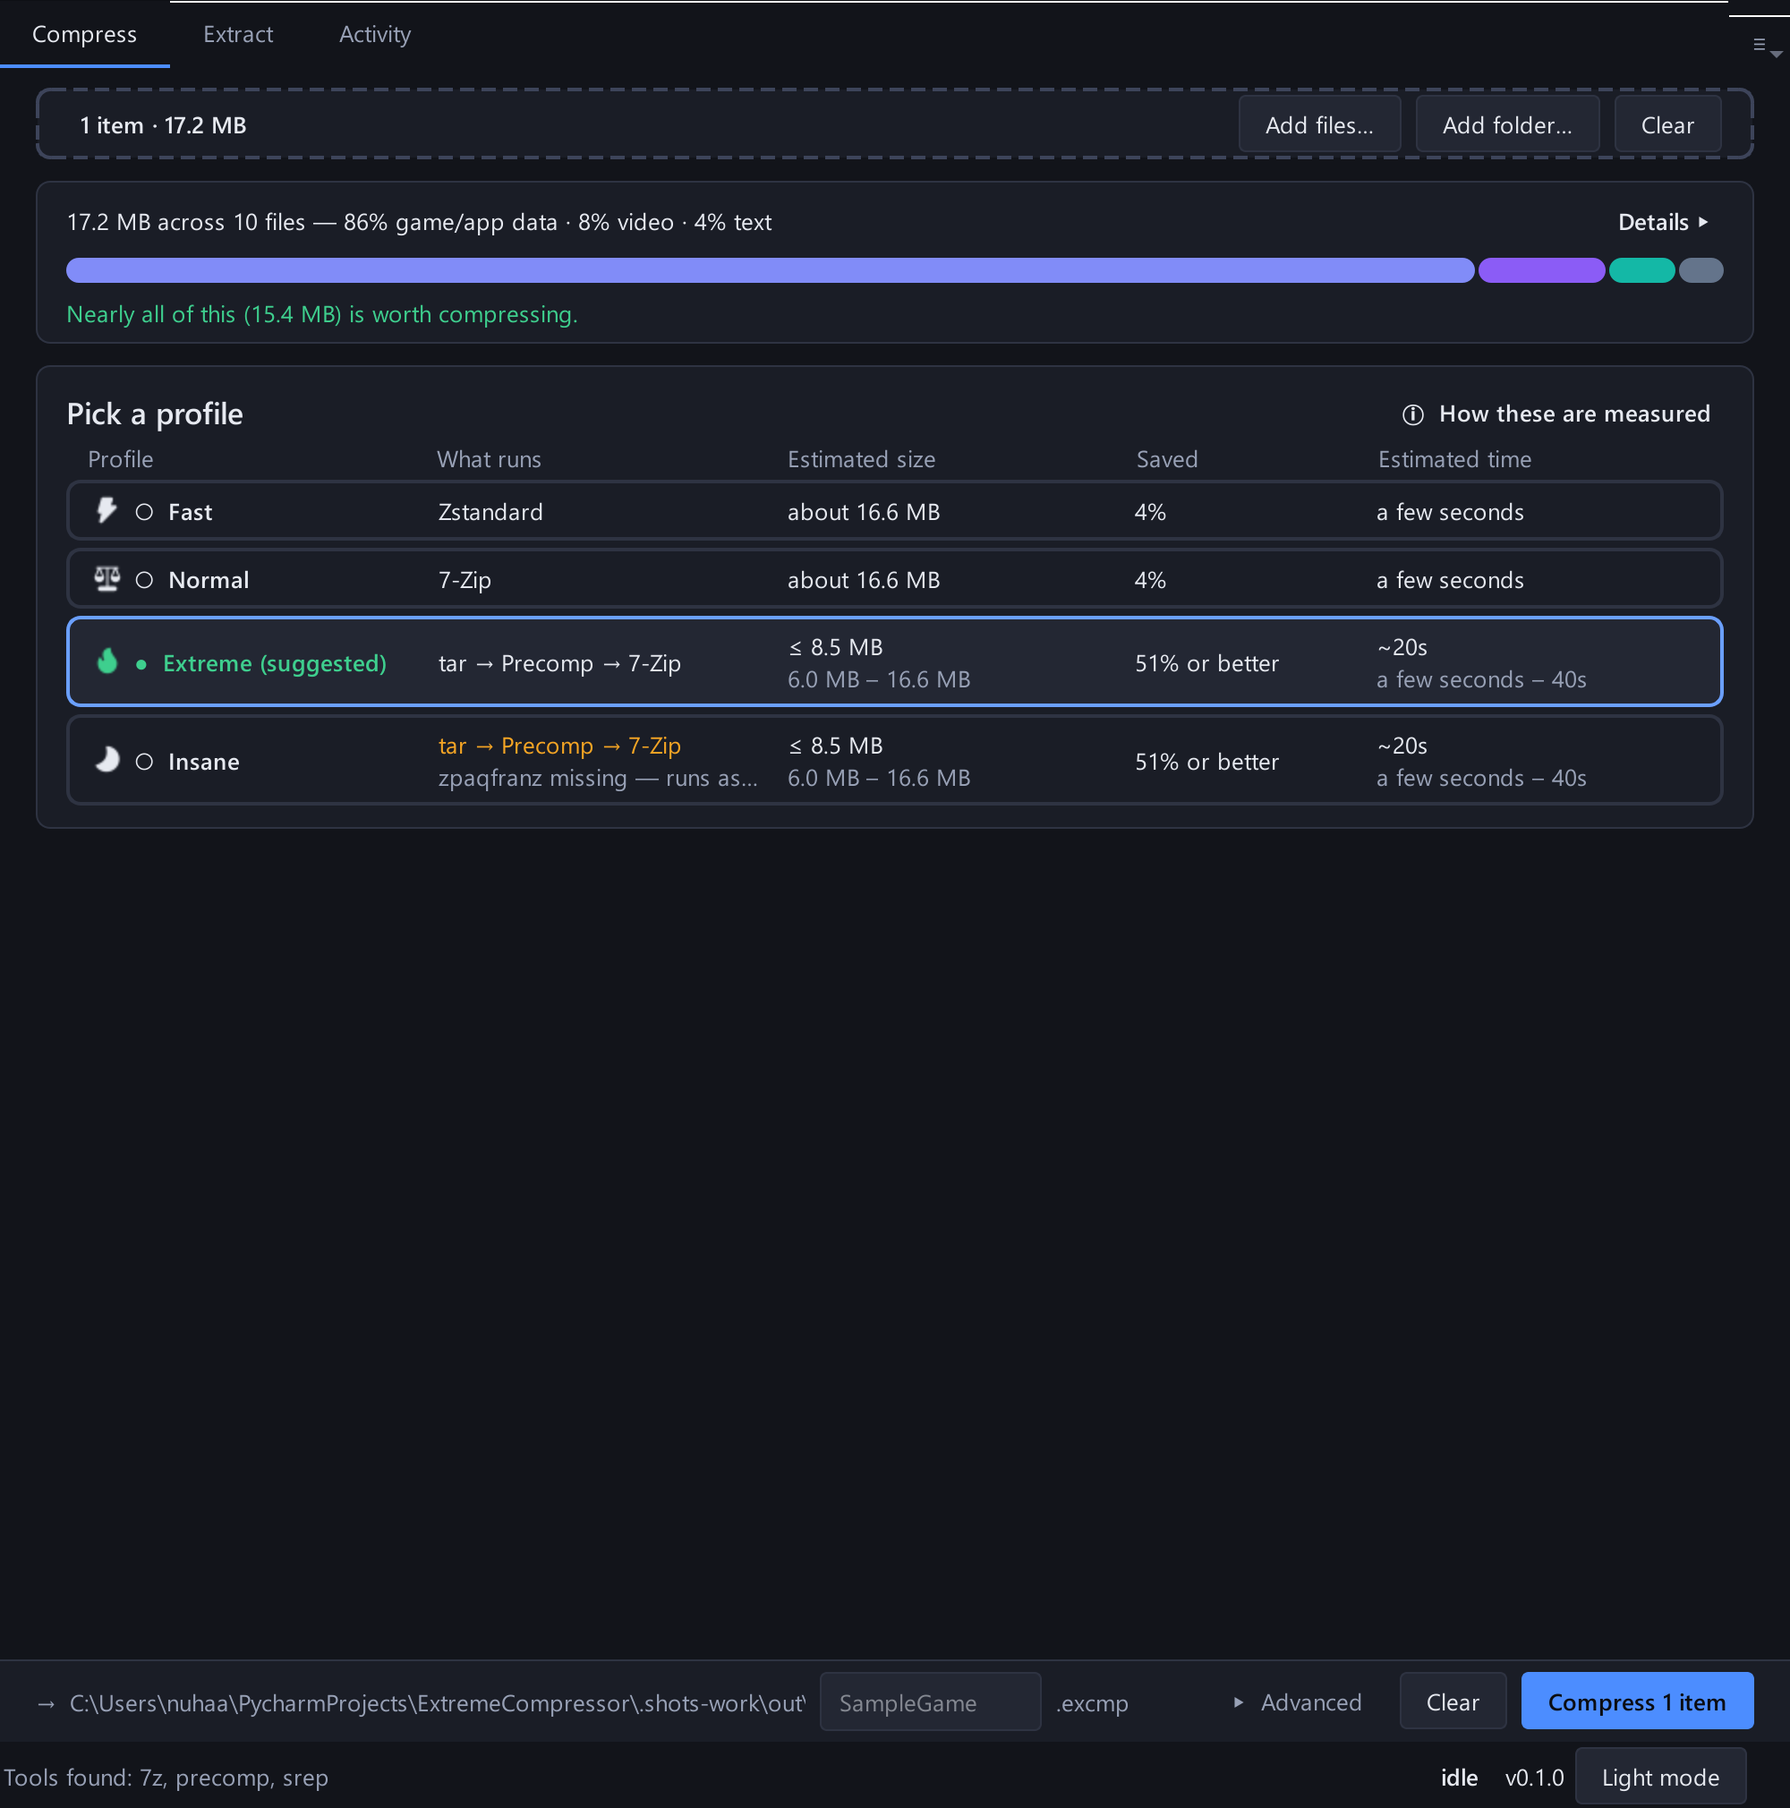
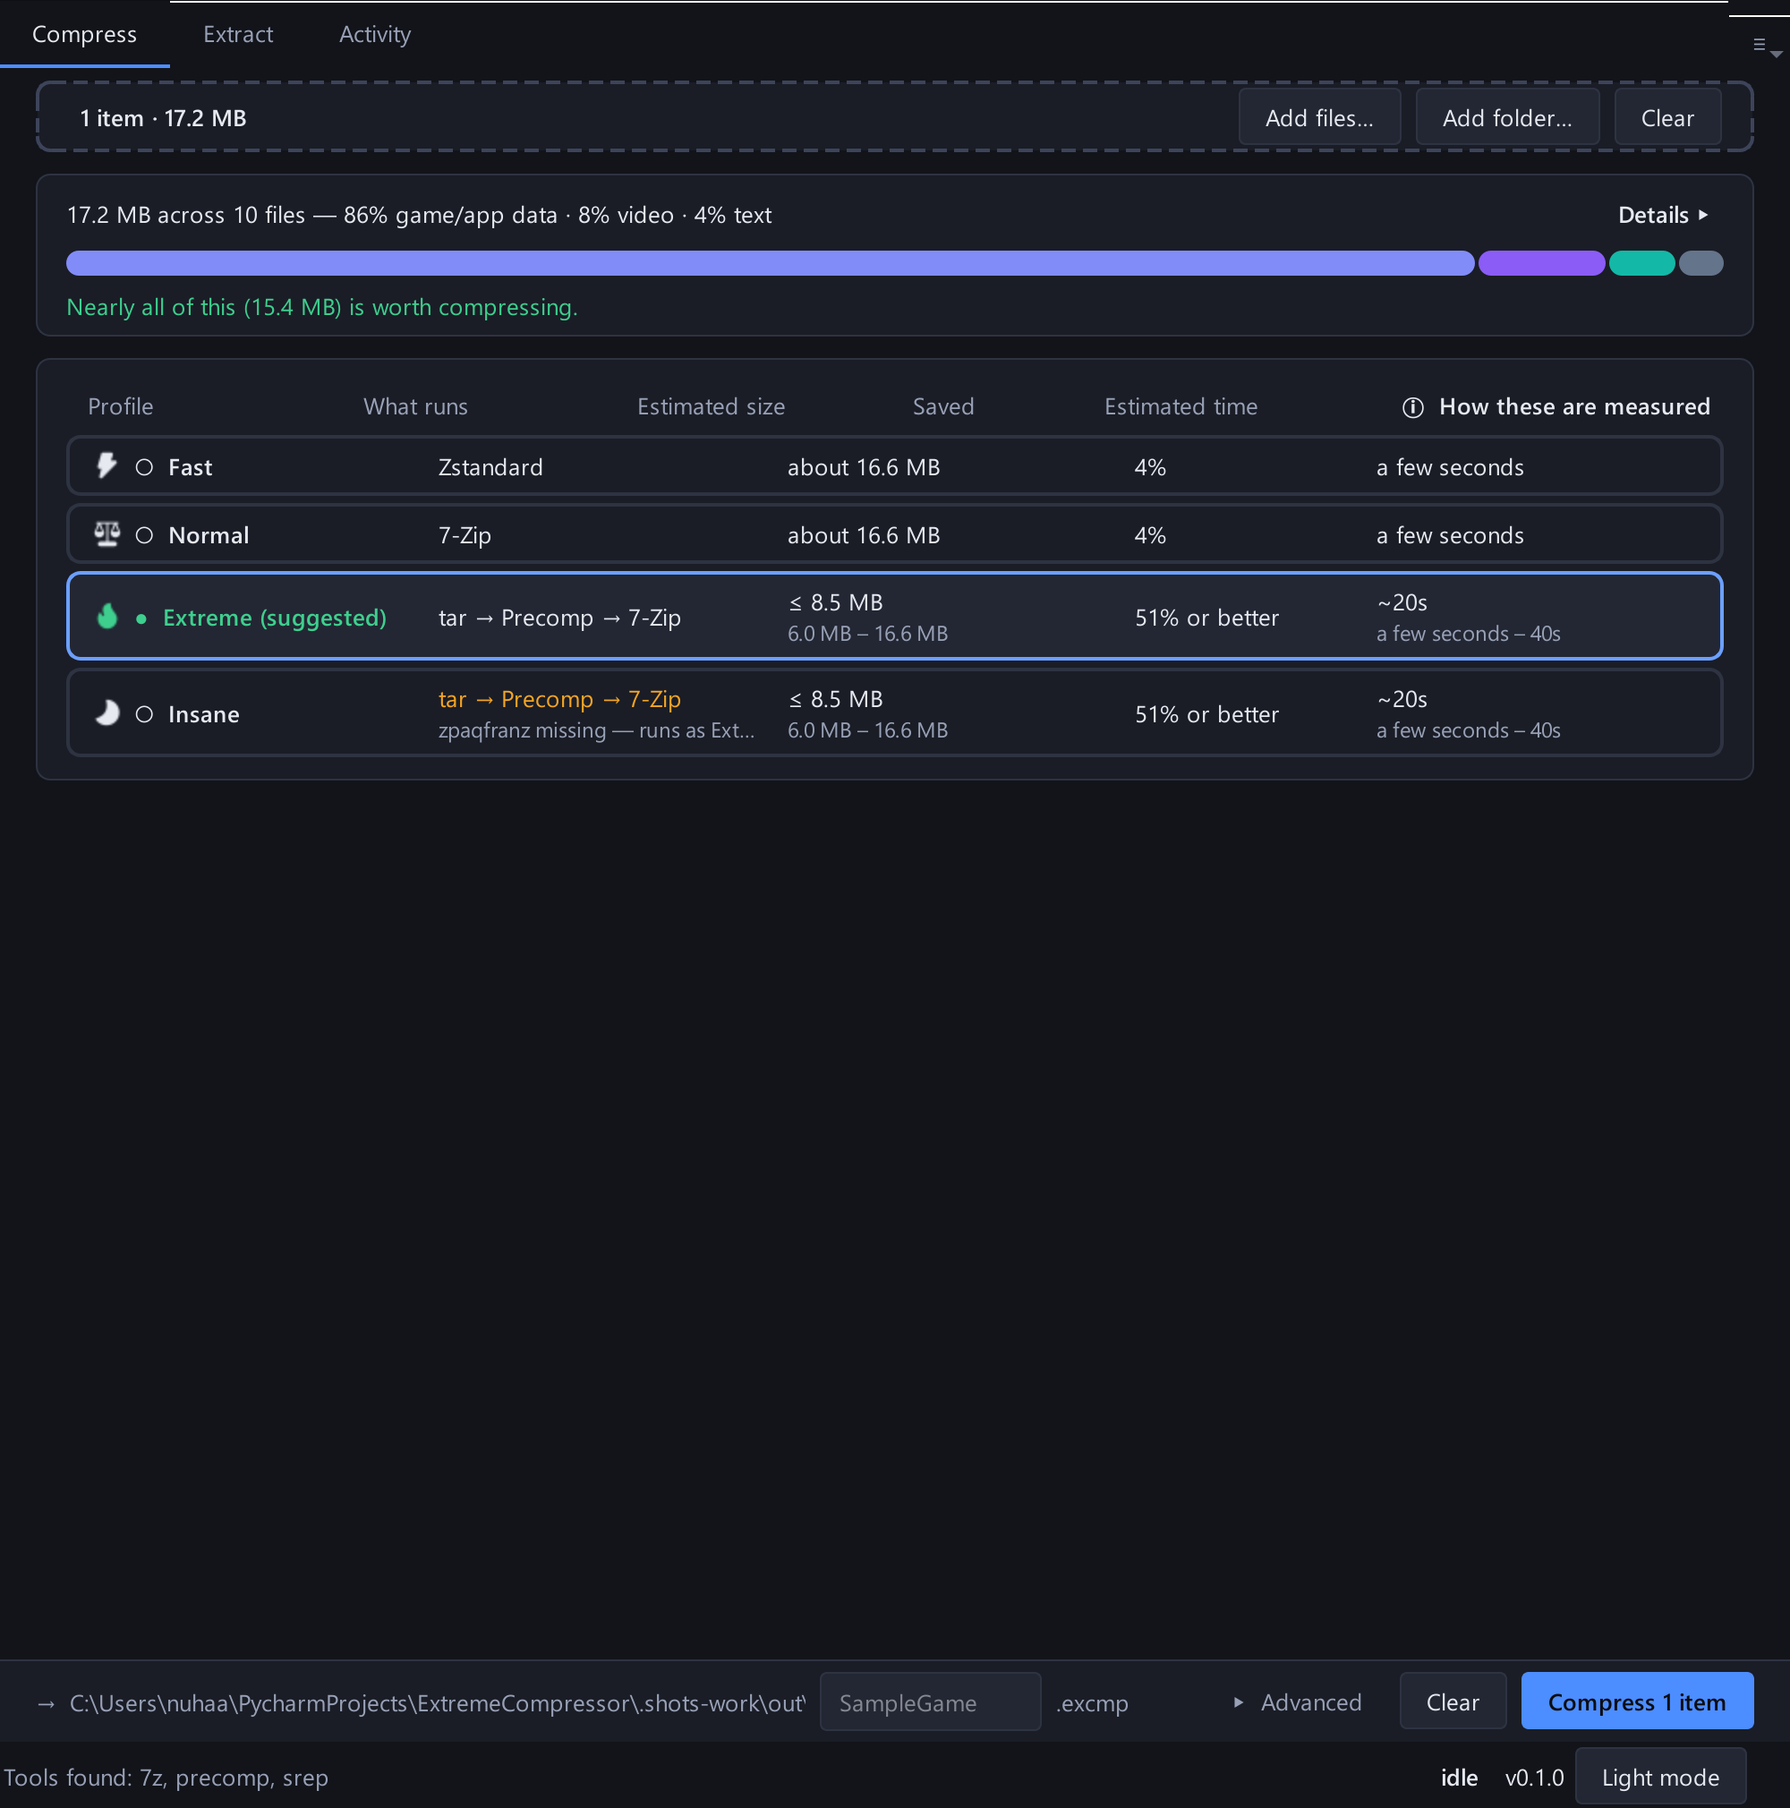
docs: the 100% claim, the QA sweep, and 415px
Records what the 12-surface x 2-theme sweep found behind a green suite - the
chooser advertising "100% or better", i.e. an archive of zero bytes or
smaller, in the one panel whose whole job is not to over-promise - and the
lesson it stands for: tests pin behaviour, rendering pins appearance, and a
UI phase needs both.

Also the two redundancies the first pass missed (a heading restating its own
column header, and the disclosure owning a row of its own) and the numbers
that follow from them: populated Compress page 869 -> 748 -> 415px, the
regression gate down to 420, and <=300 still a strict xfail because four rows
at the 32px touch floor are 128px on their own while research/23 §2.4 allowed
172px for the entire chooser.

The handoff gains a "run the sweep first" section listing the four visual
defects wave 2 shipped past a fully green suite, so wave 3 starts by
rendering rather than by trusting.

Changed region(s): [[0.031, 0.2183, 0.961, 0.4678], [0.031, 0.0312, 0.961, 0.1871], [0.682, 0.0624, 0.775, 0.0936]]

diff --git a/docs/NEXT-SESSION-START-HERE.md b/docs/NEXT-SESSION-START-HERE.md
@@ -21,7 +21,7 @@
 git checkout main && git merge --no-ff ui-v3-wave2a
 ```
 
-**372 tests: 371 pass + 1 strict-xfail.** Baseline two sessions ago was 324.
+**373 tests: 372 pass + 1 strict-xfail.** Baseline two sessions ago was 324.
 
 `excmp/` is unchanged by wave 2b — the whole wave is `gui/`, `assets/` and
 tests, so the compression path provably did not move.
@@ -34,7 +34,7 @@ Populated Compress page at 910×512 (1366×768 @ 150 %), real fonts:
 |---|---|
 | before wave 2a | **869** |
 | after 2a (queue + results moved to Activity) | **748** |
-| after 2b (compaction) | **446** |
+| after 2b (compaction + QA pass) | **415** |
 
 The **empty** Compress page now fits a 150 %-scaled display with zero scroll —
 the first time in the project's history. That gate was a strict xfail at the
@@ -47,7 +47,7 @@ than quietly forgotten. That mechanism works; keep using it.
 1. **research/23 §2.4's ≤300px budget is unreachable, and §3.3 wins.** Four
    profile rows at the Windows 32px touch floor are 128px on their own; §2.4
    budgeted the whole chooser at 172px. With everything compacted the page
-   floors at **446px**, and the missing 146px only exists in things the product
+   floors at **415px**, and the missing 115px only exists in things the product
    has decided to keep: four comparable rows, an always-visible analysis card,
    the touch floor. The ≤300 assertion stays in `test_gui_fit.py` as a
    `strict=True` xfail. **Do not "fix" it by shrinking controls below 32px.**
@@ -85,6 +85,32 @@ the engine already does all of this and the UI hides it. In rough value order:
 The Settings tab is also the natural home for the tools inventory that the
 status strip elides at narrow widths.
 
+## 4b. Run the QA sweep before calling a UI phase done
+
+`tools/qa_sweep.py` renders **12 surfaces x 2 themes** offscreen with real
+fonts - including the ones no test and no README screenshot ever touches: the
+banner, the Extract tab, the expanded pending list, a failed-job results panel,
+the Advanced panel, About, and everything-disclosed-at-once.
+
+```bash
+.venv\Scripts\python.exe tools\qa_sweep.py --out .qa
+```
+
+It exists because wave 2 shipped four visual defects past a fully green suite,
+and every single one was found by rendering a surface and looking at it:
+
+| defect | how it read on screen |
+|---|---|
+| progress bars filled their cell | a 55px slab of flat colour, not a bar |
+| tinted glyphs used `$muted` | three near-invisible ghosts beside one green flame |
+| chooser cells hard-clipped | "zpaqfranz missing - runs as E:" - looks like a bug |
+| `fmt_percent` rounded 99.6 to 100 | **"100% or better"** - an archive of zero bytes |
+
+That last one is the one to remember. It was the most over-promising sentence
+the app has ever rendered, in the one panel whose entire job is not to
+over-promise, and 371 passing tests had nothing to say about it. **Tests pin
+behaviour; rendering pins appearance. A UI phase needs both.**
+
 ## 5. Findings worth not rediscovering
 
 1. **`QT_QPA_FONTDIR` in `tests/conftest.py` is load-bearing.** Qt's offscreen
@@ -105,14 +131,18 @@ status strip elides at narrow widths.
    mode, so a screen-reader user was never told that Insane degrades to
    Extreme. Fixed. Found by a test written for something else entirely; worth
    remembering that the accessible strings need their own assertions.
-5. **Tinted SVGs need `$text`, not `$muted`.** A muted glyph on `$surface` in
+5. **A rounded percentage can become a lie.** `fmt_percent(0.996)` is "100%",
+   and "100% or better" promises a zero-byte archive. `gui.suggest._saved_words`
+   caps the *wording* at 99% and leaves the estimator's number untouched.
+   Anywhere a percentage is rendered near a superlative, check the rounding.
+6. **Tinted SVGs need `$text`, not `$muted`.** A muted glyph on `$surface` in
    dark mode is very nearly invisible — the first icon render was three ghosts
    beside one green flame, worse than the emoji it replaced.
-6. **"Fill the host" and "size to your hint" are contradictory**, which is why
+7. **"Fill the host" and "size to your hint" are contradictory**, which is why
    the Activity page is deliberately not a `QScrollArea`.
-7. **Grep is the wrong tool for "no modals left"** — the comments explaining
+8. **Grep is the wrong tool for "no modals left"** — the comments explaining
    why the modals went name `QMessageBox`. The test tokenises.
-8. Word-wrapping QLabels poison QScrollArea sizing; the chooser's
+9. Word-wrapping QLabels poison QScrollArea sizing; the chooser's
    `window.presets` / `window.compare_table` alias must not be "cleaned up".
 
 ## 6. Two warts spotted, still deliberately not fixed

diff --git a/docs/benchmarks/2026-08-07-ui-wave2b.md b/docs/benchmarks/2026-08-07-ui-wave2b.md
@@ -16,30 +16,30 @@ end-to-end evidence below is a real run rather than a re-derivation.
 |---|---|---|---|
 | drop zone | 116 | 116 | **40** (intake chip) |
 | analysis card | 200 | 200 | **99** |
-| chooser | 401 | 401 | **259** |
+| chooser | 401 | 401 | **236** |
 | queue + results | ~230 | 0 (own tab) | 0 |
-| **populated page** | **869** | **748** | **446** |
+| **populated page** | **869** | **748** | **415** |
 | **empty page @150 %** | overflows | overflows by 35px | **fits, 0px scroll** |
 
-Populated page **869 → 446px, −49 %**. The empty Compress page fits a
+Populated page **869 → 415px, −52 %**. The empty Compress page fits a
 150 %-scaled 1366×768 display for the first time in the project's history —
 that gate was a strict xfail at the end of wave 2a and now passes, so it has
 been promoted into the parametrized regression gate.
 
-### Why the populated page stops at 446 and not §2.4's 300
+### Why the populated page stops at 415 and not §2.4's 300
 
 Every item is already at its compacted size:
 
 ```
 intake chip                 40   32px touch floor + 2px border + margins
 analysis card               99   headline + bar + gain note; rest behind Details
-chooser                    259   of which 4 profile rows are 168
-page margins + 2 gaps       48
+chooser                    236   of which 4 profile rows are 168
+page margins + 2 gaps       40
                          -----
-                           446
+                           415
 ```
 
-Closing the last 146px needs one of three things the product has decided to
+Closing the last 115px needs one of three things the product has decided to
 keep:
 
 1. **Fewer than four profile rows** (−84px). Comparing all four *is* the
@@ -127,5 +127,39 @@ Corpus A (721 MB, 6 files, external HDD) was re-verified in wave 2a at
 
 ## 5. Suite
 
-`.venv\Scripts\python.exe -m pytest -q` → **371 passed, 1 xfailed**
-(324 before wave 2a, 344+2 after wave 2a).
+`.venv\Scripts\python.exe -m pytest -q` → **372 passed, 1 xfailed**
+(324 before wave 2a, 344+2 after 2a, 371+1 before the QA pass).
+
+
+---
+
+## 6. The QA pass that should have happened first
+
+Wave 2b was reviewed by looking at three dark-mode screenshots. That is not QA.
+A proper sweep — **12 surfaces × both themes**, including the ones no test and
+no README shot had ever rendered (the banner, the Extract tab, the expanded
+pending list, a failed-job results panel, the Advanced panel, the About card,
+everything-disclosed-at-once) — found two defects that 371 passing tests did
+not:
+
+1. **"100% or better".** A Precomp ceiling of 1.5 KB out of 371.5 KB is 99.6 %,
+   which `fmt_percent` rounds to 100 — so the chooser advertised a saving of
+   100 % or *more*, i.e. an archive of zero bytes or smaller. From an app whose
+   entire identity is refusing to overpromise, this was the worst sentence on
+   screen. `gui.suggest._saved_words` now caps the **wording** at 99 % while
+   leaving the estimator's own number untouched, so nothing downstream is lied
+   to. Pinned by `test_a_saving_is_never_advertised_as_100_percent`.
+2. **The pending list was a fixed 120px box** holding three short filenames —
+   most of a chip's worth of empty grey, in a panel disclosed on demand. It
+   sizes to its rows now, capped at six.
+
+Light mode itself came through clean: radii consistent, tinted SVGs legible on
+white, the banner readable, WCAG tokens holding. But that was luck, not
+verification — W2-4 changed every radius and W2-5 added theme-tinted icons, and
+neither had been looked at in light mode before this sweep.
+
+**Lesson worth keeping: automated tests pin behaviour, not appearance.** Every
+visual defect this wave produced — the fat progress bars, the invisible muted
+glyphs, the mid-word clip, and both of the above — was found by rendering a
+surface and looking at it. It ships as `tools/qa_sweep.py`; run it
+before calling a UI wave done.

diff --git a/docs/ROADMAP.md b/docs/ROADMAP.md
@@ -10,7 +10,7 @@
 > **UI v3 wave 2 is complete** — 2a (Activity tab, compact results, queue
 > density, scan progress, the last modal gone) and 2b (the height compaction,
 > token sweep, Fluent SVG icons, dark title bar, pending-items list), both
-> **on one branch awaiting review**. **372 tests** (371 pass + 1 strict-xfail
+> **on one branch awaiting review**. **373 tests** (372 pass + 1 strict-xfail
 > height target that research/23 §2.4 and §3.3 make unreachable).
 > **Next up: UI wave 3 (expose the engine — research/23 §5), then J5-J7,
 > then G1-G2.**
@@ -791,7 +791,7 @@ by actually running them on a ≤100 MB sample" is the *measurement* upgrade to 
 | ~~3a~~ | ~~J1-J4 + J8 (estimator + comparison table + preflight + backtest)~~ | ✅ done | estimates are live and scored against two real corpora |
 | ~~UI-1~~ | ~~UI v3 wave 1 (screen fit, merged chooser, action bar, registry, WCAG, fit gate)~~ | ✅ done, merged | all 13 items of research/23 §7; the 1366×768 gate pins the fix |
 | ~~UI-2a~~ | ~~UI v3 wave 2a (Activity tab + status strip, compact results, queue density, scan progress, Banner/I9)~~ | ✅ done, on a branch | W2-1/3/7/8/9. Populated Compress page 869→748px, last `QMessageBox` gone, scan silence 4.7s→0.3s on the real HDD tree. Also fixed the tests' missing `QT_QPA_FONTDIR` — every prior height gate had been measuring tofu |
-| ~~UI-2b~~ | ~~UI v3 wave 2b (compaction, token sweep, Fluent SVG icons, dark title bar, pending-items list)~~ | ✅ done, on a branch | W2-4/5/6/10 + intake chip, analysis-card collapse, chooser diet. Populated page 748→446px; the empty page fits 150% for the first time. ≤300px is unreachable without dropping a profile row, the analysis card, or the 32px touch floor — recorded as a strict xfail, not silently dropped |
+| ~~UI-2b~~ | ~~UI v3 wave 2b (compaction, token sweep, Fluent SVG icons, dark title bar, pending-items list)~~ | ✅ done, on a branch | W2-4/5/6/10 + intake chip, analysis-card collapse, chooser diet. Populated page 748→415px; the empty page fits 150% for the first time. ≤300px is unreachable without dropping a profile row, the analysis card, or the 32px touch floor — recorded as a strict xfail, not silently dropped |
 | **3b** | **J5-J7 (per-type memory, long-job confirm, self-calibration)** | **1 session** | **finishes Phase J; J7 is what turns a cold-start prior into estimates that fit this machine** |
 | ~~4~~ | ~~B11 + D9 (drop SREP; make the self-test replay the chain)~~ | ✅ done | the chain is SREP-free and nothing publishes without a verified restore — four clean Extreme round-trips on real corpora |
 | 5 | G1-G2 (open/browse foreign archives) | 1 session | S-sized, and the single biggest identity gain: stops being one-way |

diff --git a/docs/research/23-ui-v3-redesign.md b/docs/research/23-ui-v3-redesign.md
@@ -508,7 +508,7 @@ claim was false by its own tables.**
 **Wave 2a SHIPPED 2026-08-06** (W2-1, W2-3, W2-7, W2-8, W2-9).
 **Wave 2b SHIPPED 2026-08-07** (W2-4, W2-5, W2-6, W2-10, plus the three
 compaction items no numbered item owned). Populated Compress page
-**869 → 748 → 446px**; the empty page fits 150 % scaling for the first time.
+**869 → 748 → 415px**; the empty page fits 150 % scaling for the first time.
 The ≤300px target is **not** reached and cannot be — see correction 6.
 
 | # | What | Files | Effort | Verify |
@@ -562,7 +562,7 @@ The ≤300px target is **not** reached and cannot be — see correction 6.
    wins.** Four profile rows at the Windows touch minimum are 128px on their
    own; §2.4 budgeted the entire chooser — rows, title, column header, margins
    and gaps — at 172px. With every item compacted the populated page floors at
-   **446px**, and the missing 146px only exists in things the product has
+   **415px**, and the missing 115px only exists in things the product has
    decided to keep: four comparable rows, an always-visible analysis card, and
    the touch floor. The assertion stays as a `strict=True` xfail so re-opening
    it is a deliberate act. The arithmetic is in
@@ -576,6 +576,13 @@ The ≤300px target is **not** reached and cannot be — see correction 6.
    appended `row.caveat` to its accessible sentence only in placeholder mode,
    so a screen-reader user stopped being told that Insane degrades to Extreme
    the moment analysis finished. Found by the elision test, not by an audit.
+9. **The chooser advertised "100 % or better".** A Precomp ceiling that rounds
+   to 100 % promised an archive of zero bytes or smaller — the single most
+   over-promising sentence the app has ever rendered, in the one panel whose
+   job is not to over-promise. Capped at 99 % in the wording only. Found by a
+   12-surface × 2-theme screenshot sweep, not by 371 passing tests, which is
+   the durable lesson: **tests pin behaviour, rendering pins appearance, and a
+   UI wave needs both before it is done.**
 
 ### Wave 3 — expose the engine + Settings (the "looks cheap" payload, §5)
 
